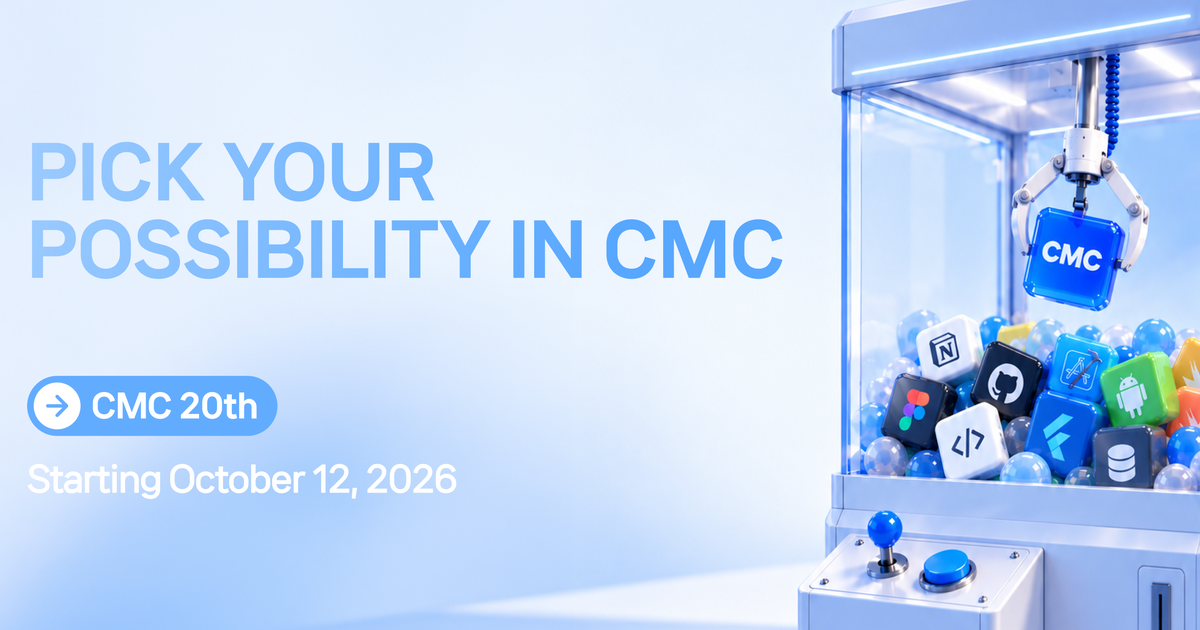
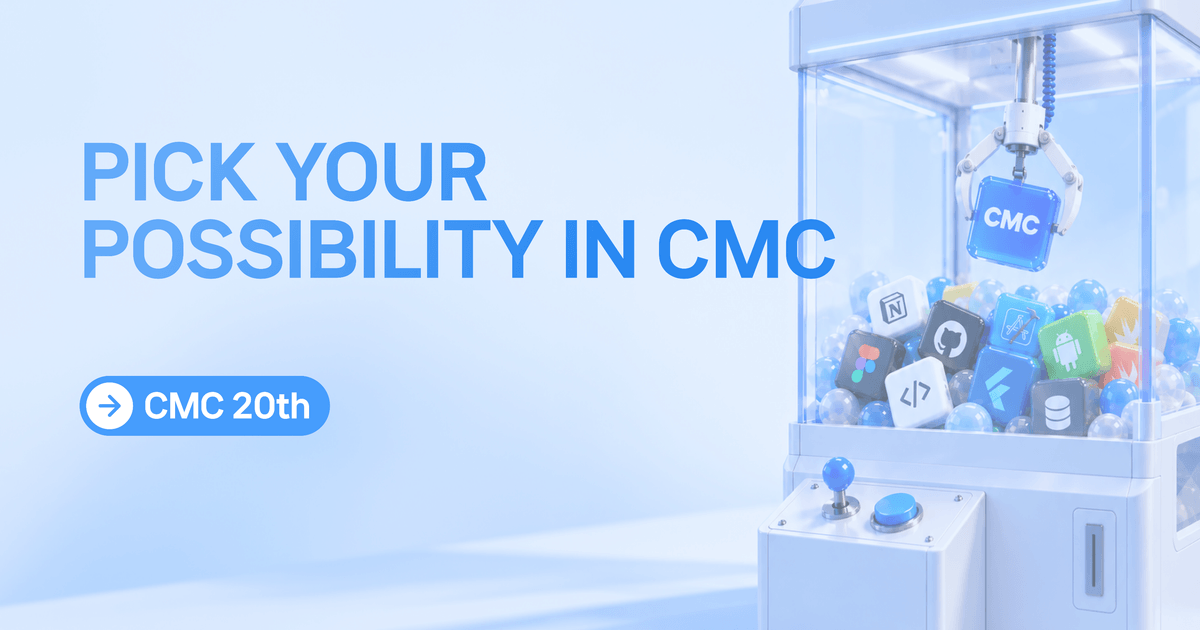
fix(seo): 최신 Figma 시안으로 OG 이미지 갱신

diff --git a/src/lib/site.ts b/src/lib/site.ts
@@ -11,7 +11,7 @@ export const OG_IMAGE = {
   url: '/opengraph-image.png',
   width: 1200,
   height: 630,
-  alt: 'PICK YOUR POSSIBILITY IN CMC — CMC 20th, Starting October 12, 2026',
+  alt: 'PICK YOUR POSSIBILITY IN CMC — CMC 20th',
 }
 
 // 기존 홈페이지와 URL 경로를 맞춘다. sitemap과 내부 링크도 이 값을 사용한다.
